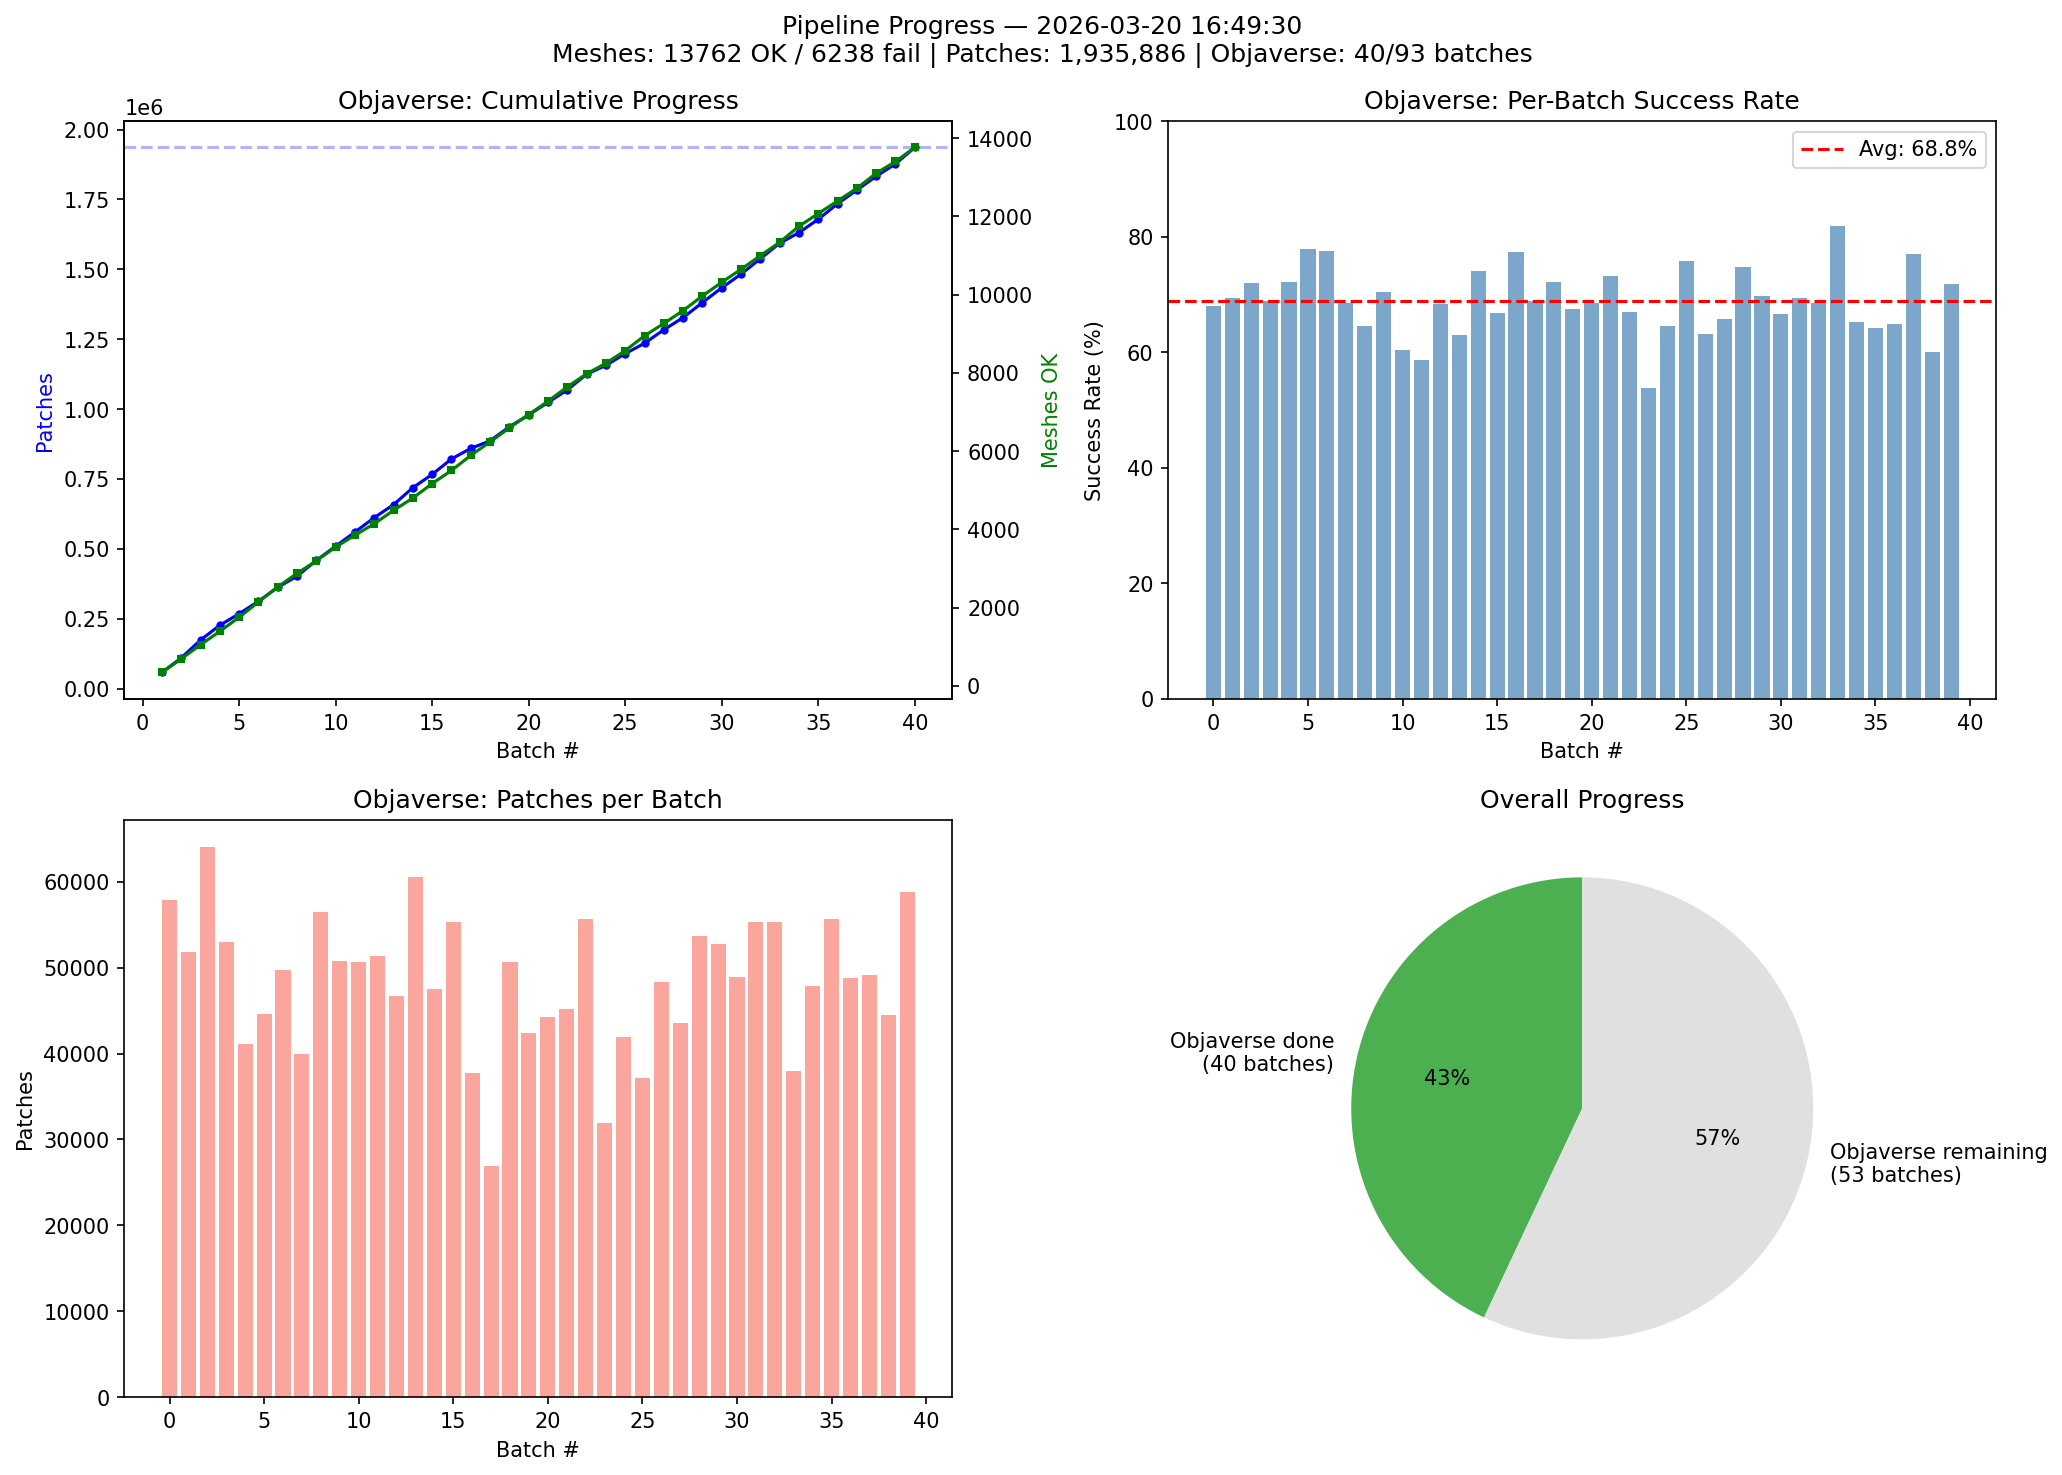
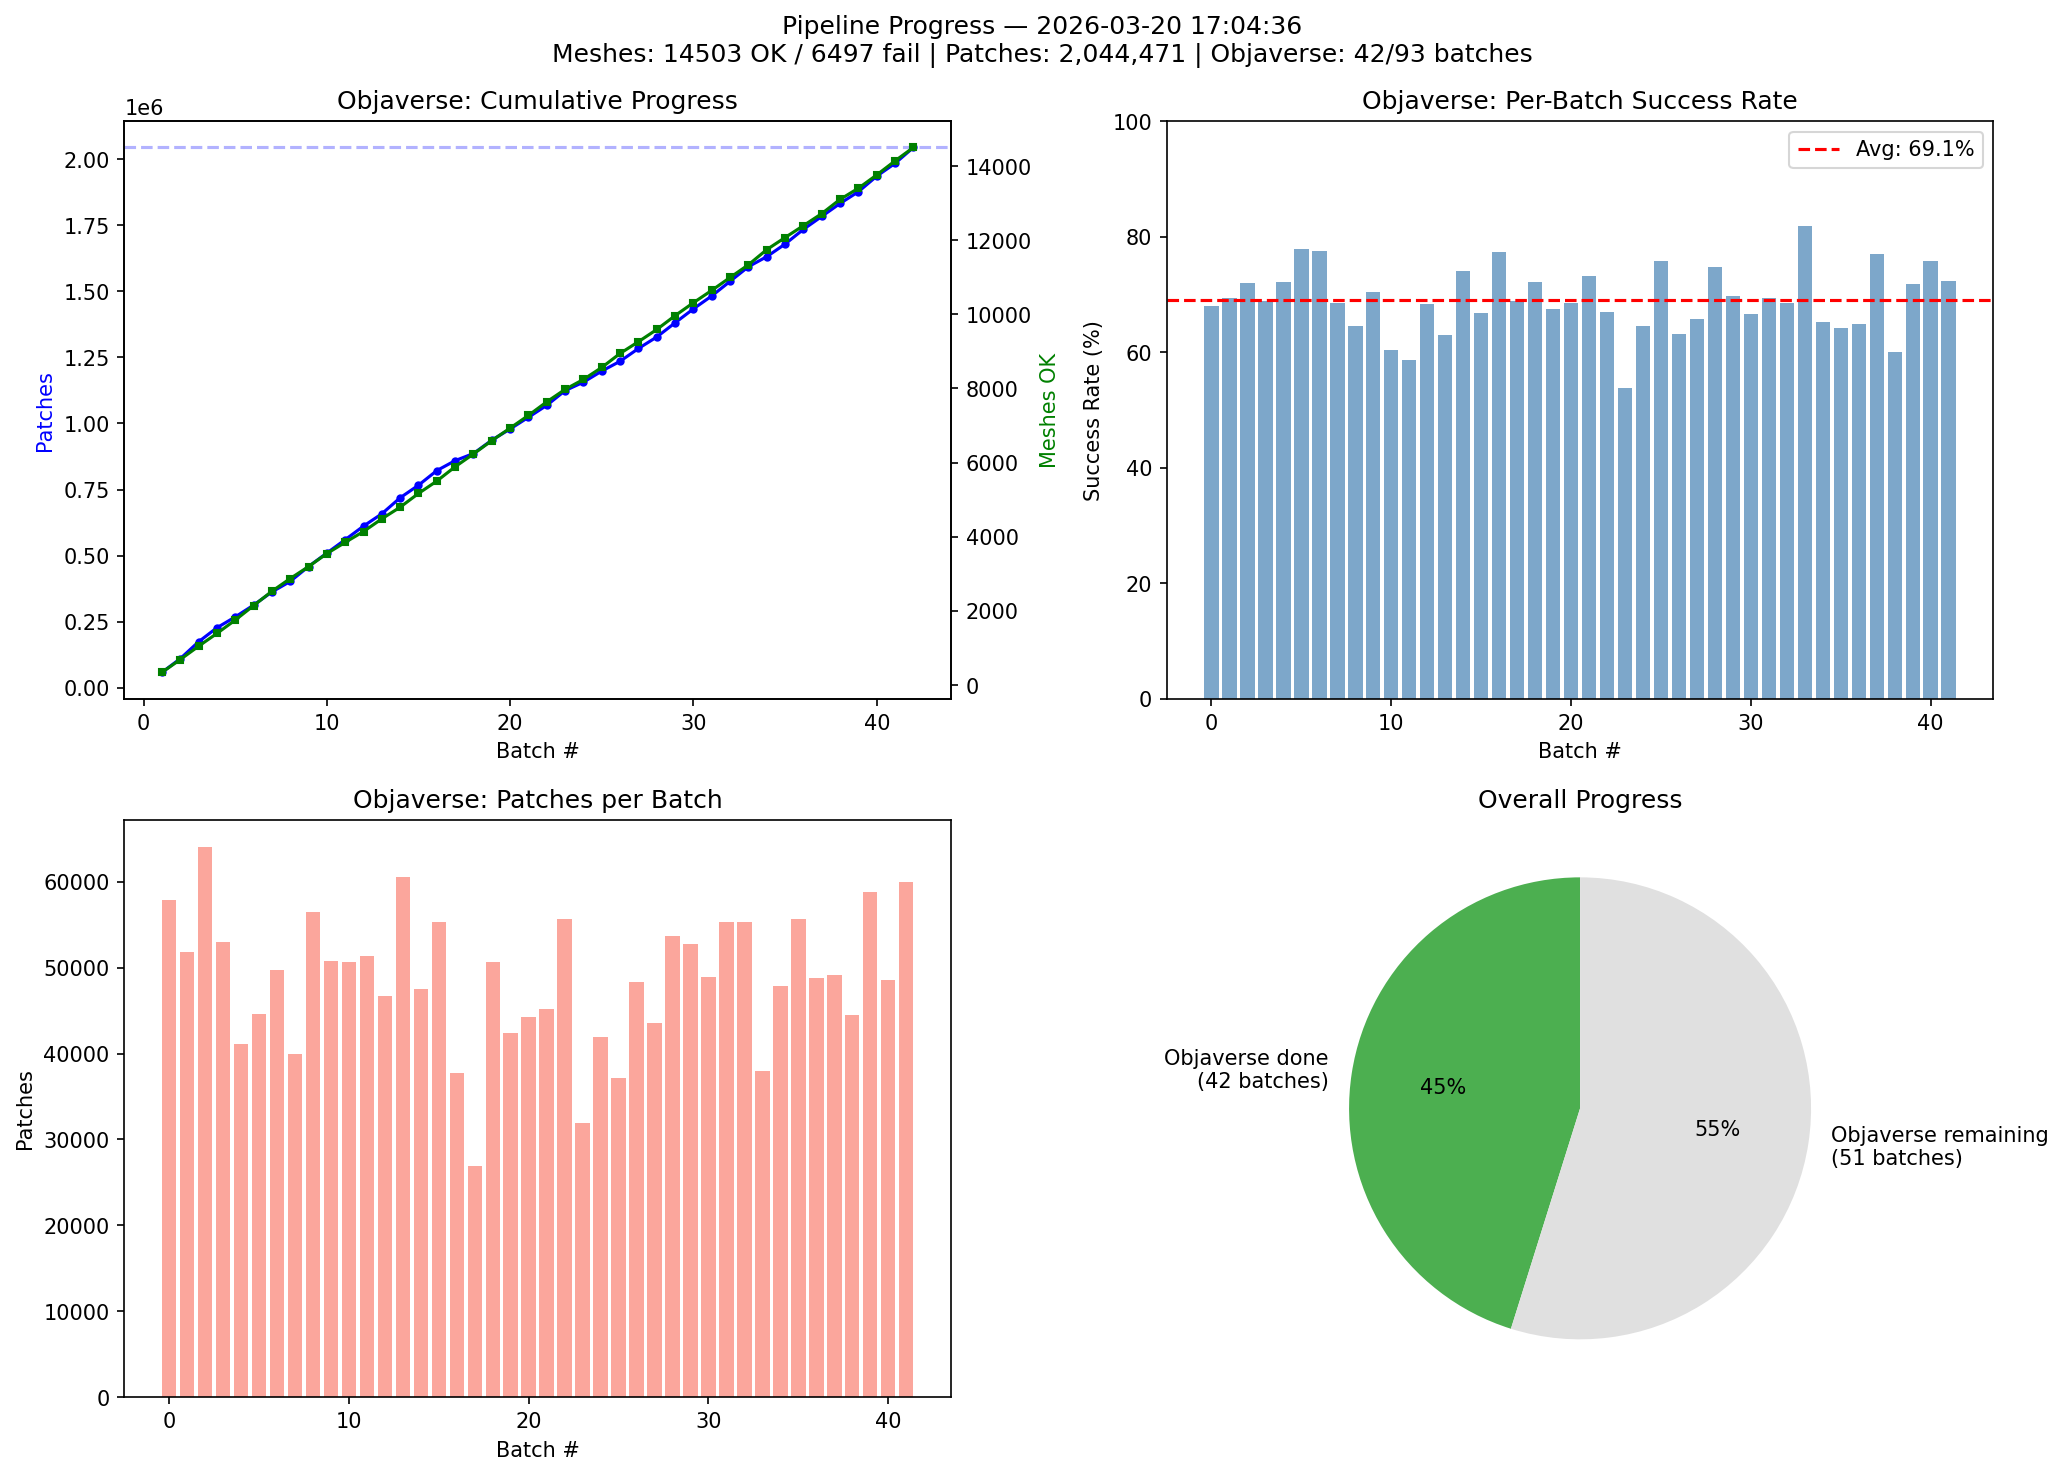
chore: update pipeline monitoring (batch_042 completed)
- Objaverse: 42/93 batches, 14503 OK / 6497 fail
- Patches: 2,044,471

diff --git a/results/dataset-pipeline/REPORT.md b/results/dataset-pipeline/REPORT.md
@@ -1,17 +1,17 @@
 # Dataset Pipeline Progress Report
 
-**Generated:** 2026-03-20 16:49:30
+**Generated:** 2026-03-20 17:04:36
 
 ## Overall
-- Total meshes processed: 13762 OK / 6238 fail
-- Total patches: 1,935,886
+- Total meshes processed: 14503 OK / 6497 fail
+- Total patches: 2,044,471
 
 ## Objaverse-LVIS (Phase 1)
-- Batches: 40 / 93 completed
-- Meshes: 13762 OK / 6238 fail
-- Success rate: 68.8%
-- Patches: 1,935,886
-- Avg patches/mesh: 140.7
+- Batches: 42 / 93 completed
+- Meshes: 14503 OK / 6497 fail
+- Success rate: 69.1%
+- Patches: 2,044,471
+- Avg patches/mesh: 141.0
 
 ## ShapeNet (Phase 2)
 - Batches: 0 completed
